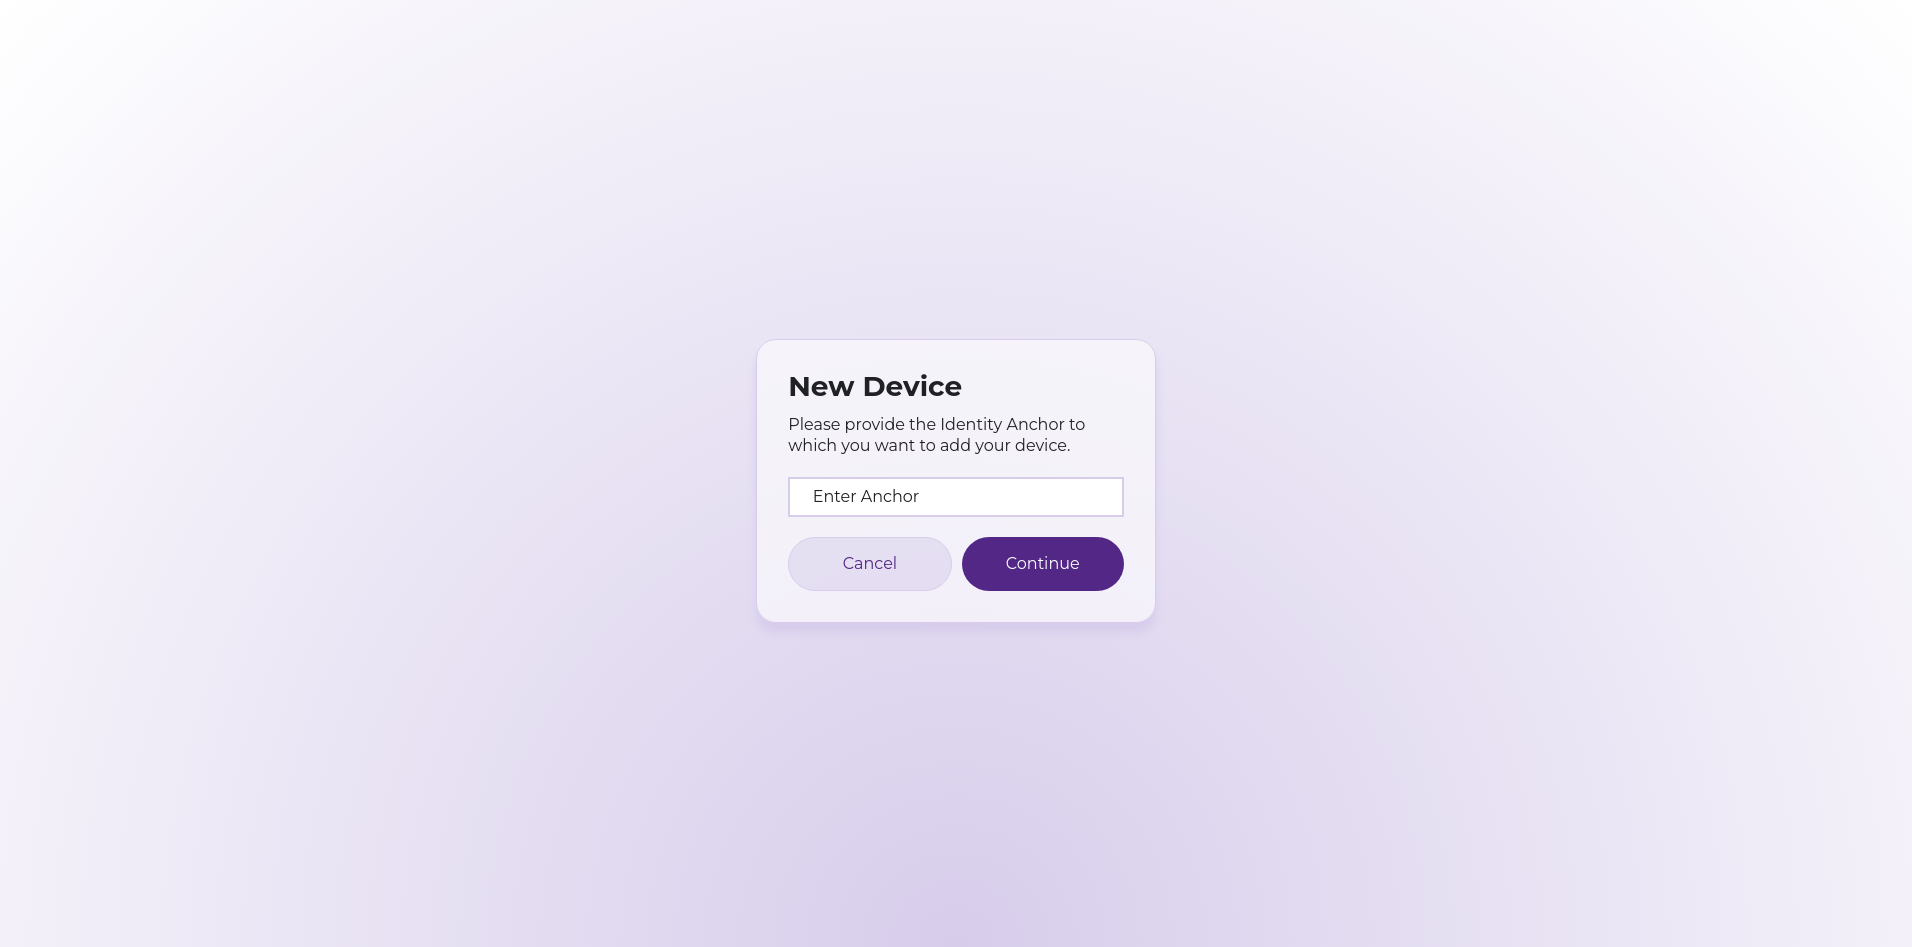
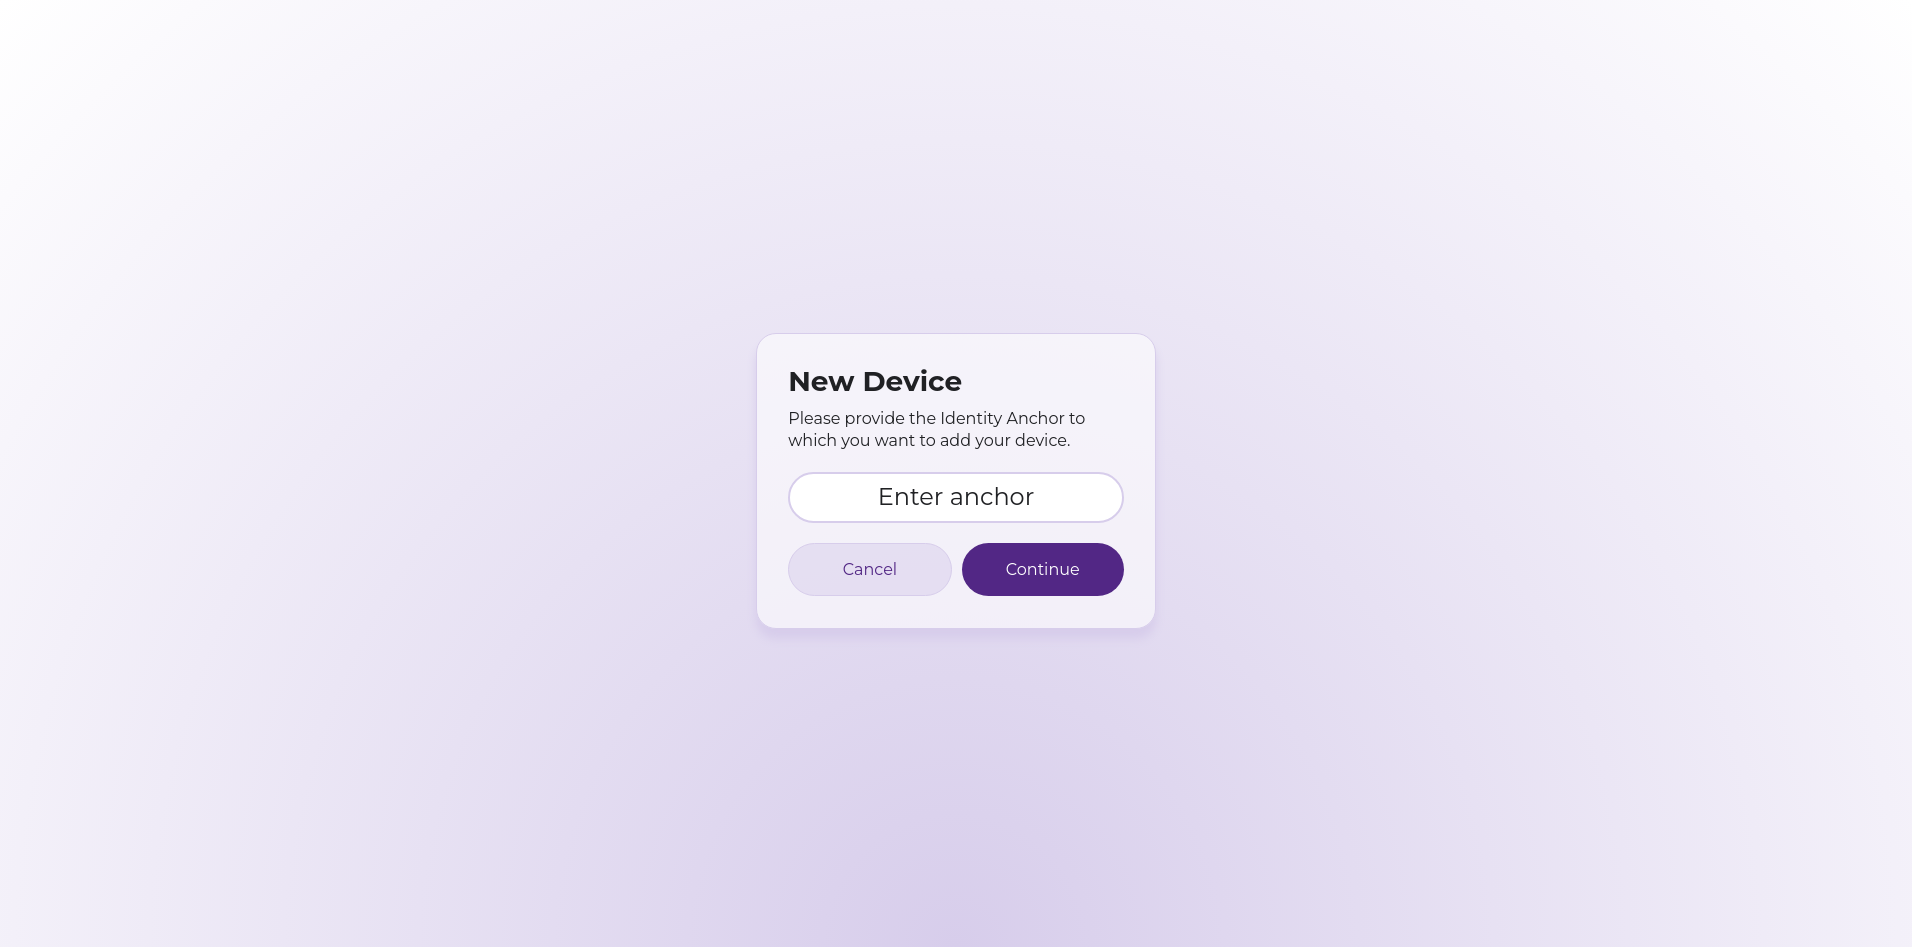
Update addDevice welcome page (#910)
* Update addDevice welcome page

This updates the "welcome view" of the add device flow to use lit
`@click` and the new anchor input component for consistency.

* Use anchorInput template

* 🤖 Selenium screenshots auto-update

Changed region(s): [[0.4012, 0.3981, 0.6172, 0.6737], [0.432, 0.5818, 0.4629, 0.6125]]

diff --git a/src/frontend/src/flows/addDevice/welcomeView/index.ts b/src/frontend/src/flows/addDevice/welcomeView/index.ts
@@ -2,28 +2,26 @@ import { html, render } from "lit";
 import { parseUserNumber } from "../../../utils/userNumber";
 import { registerTentativeDevice } from "./registerTentativeDevice";
 import { toggleErrorMessage } from "../../../utils/errorHelper";
+import { mkAnchorInput } from "../../../components/anchorInput";
 import { Connection } from "../../../utils/iiConnection";
 
-const pageContent = (userNumber: bigint | null) => html`
+const pageContent = (userNumber?: bigint) => html`
   <div class="l-container c-card c-card--highlight">
     <hgroup>
       <h1 class="t-title t-title--main">New Device</h1>
-      <p class="t-lead">
+      <p class="t-paragraph t-lead">
         Please provide the Identity Anchor to which you want to add your device.
       </p>
       <p id="invalidAnchorMessage" class="is-hidden">
         Please enter a valid Identity Anchor.
       </p>
     </hgroup>
-    <input
-      class="c-input"
-      type="text"
-      id="addDeviceUserNumber"
-      placeholder="Enter Anchor"
-      value=${userNumber ?? ""}
-    />
+    ${mkAnchorInput("addDeviceUserNumber", userNumber).template}
     <div class="c-button-group">
       <button
+        @click="${
+          window.location.reload /* TODO: L2-309: do this without reload */
+        }"
         class="c-button c-button--secondary"
         id="addDeviceUserNumberCancel"
       >
@@ -44,8 +42,8 @@ const pageContent = (userNumber: bigint | null) => html`
  * This shows a prompt to enter the identity anchor to add this new device to.
  */
 export const addRemoteDevice = async (
-  userNumber: bigint | null,
-  connection: Connection
+  connection: Connection,
+  userNumber?: bigint
 ): Promise<void> => {
   const container = document.getElementById("pageContent") as HTMLElement;
   render(pageContent(userNumber), container);
@@ -53,15 +51,6 @@ export const addRemoteDevice = async (
 };
 
 const init = (connection: Connection) => {
-  const cancelButton = document.getElementById(
-    "addDeviceUserNumberCancel"
-  ) as HTMLButtonElement;
-
-  cancelButton.onclick = () => {
-    // TODO L2-309: do this without reload
-    window.location.reload();
-  };
-
   const continueButton = document.getElementById(
     "addDeviceUserNumberContinue"
   ) as HTMLButtonElement;

diff --git a/src/frontend/src/showcase.ts b/src/frontend/src/showcase.ts
@@ -151,7 +151,7 @@ const iiPages: Record<string, () => void> = {
   chooseDeviceAddFlow: () => chooseDeviceAddFlow(),
   renderPollForTentativeDevicePage: () =>
     renderPollForTentativeDevicePage(userNumber),
-  addRemoteDevice: () => addRemoteDevice(null, dummyConnection),
+  addRemoteDevice: () => addRemoteDevice(dummyConnection),
   registerTentativeDevice: () =>
     registerTentativeDevice(userNumber, dummyConnection),
   deviceRegistrationDisabledInfo: () =>

diff --git a/src/frontend/src/flows/login/unknownAnchor.ts b/src/frontend/src/flows/login/unknownAnchor.ts
@@ -145,7 +145,7 @@ const initLinkDevice = (connection: Connection) => {
       "registerUserNumber"
     ) as HTMLInputElement;
 
-    const userNumber = parseUserNumber(userNumberInput.value);
-    await addRemoteDevice(userNumber, connection);
+    const userNumber = parseUserNumber(userNumberInput.value) ?? undefined;
+    await addRemoteDevice(connection, userNumber);
   };
 };
